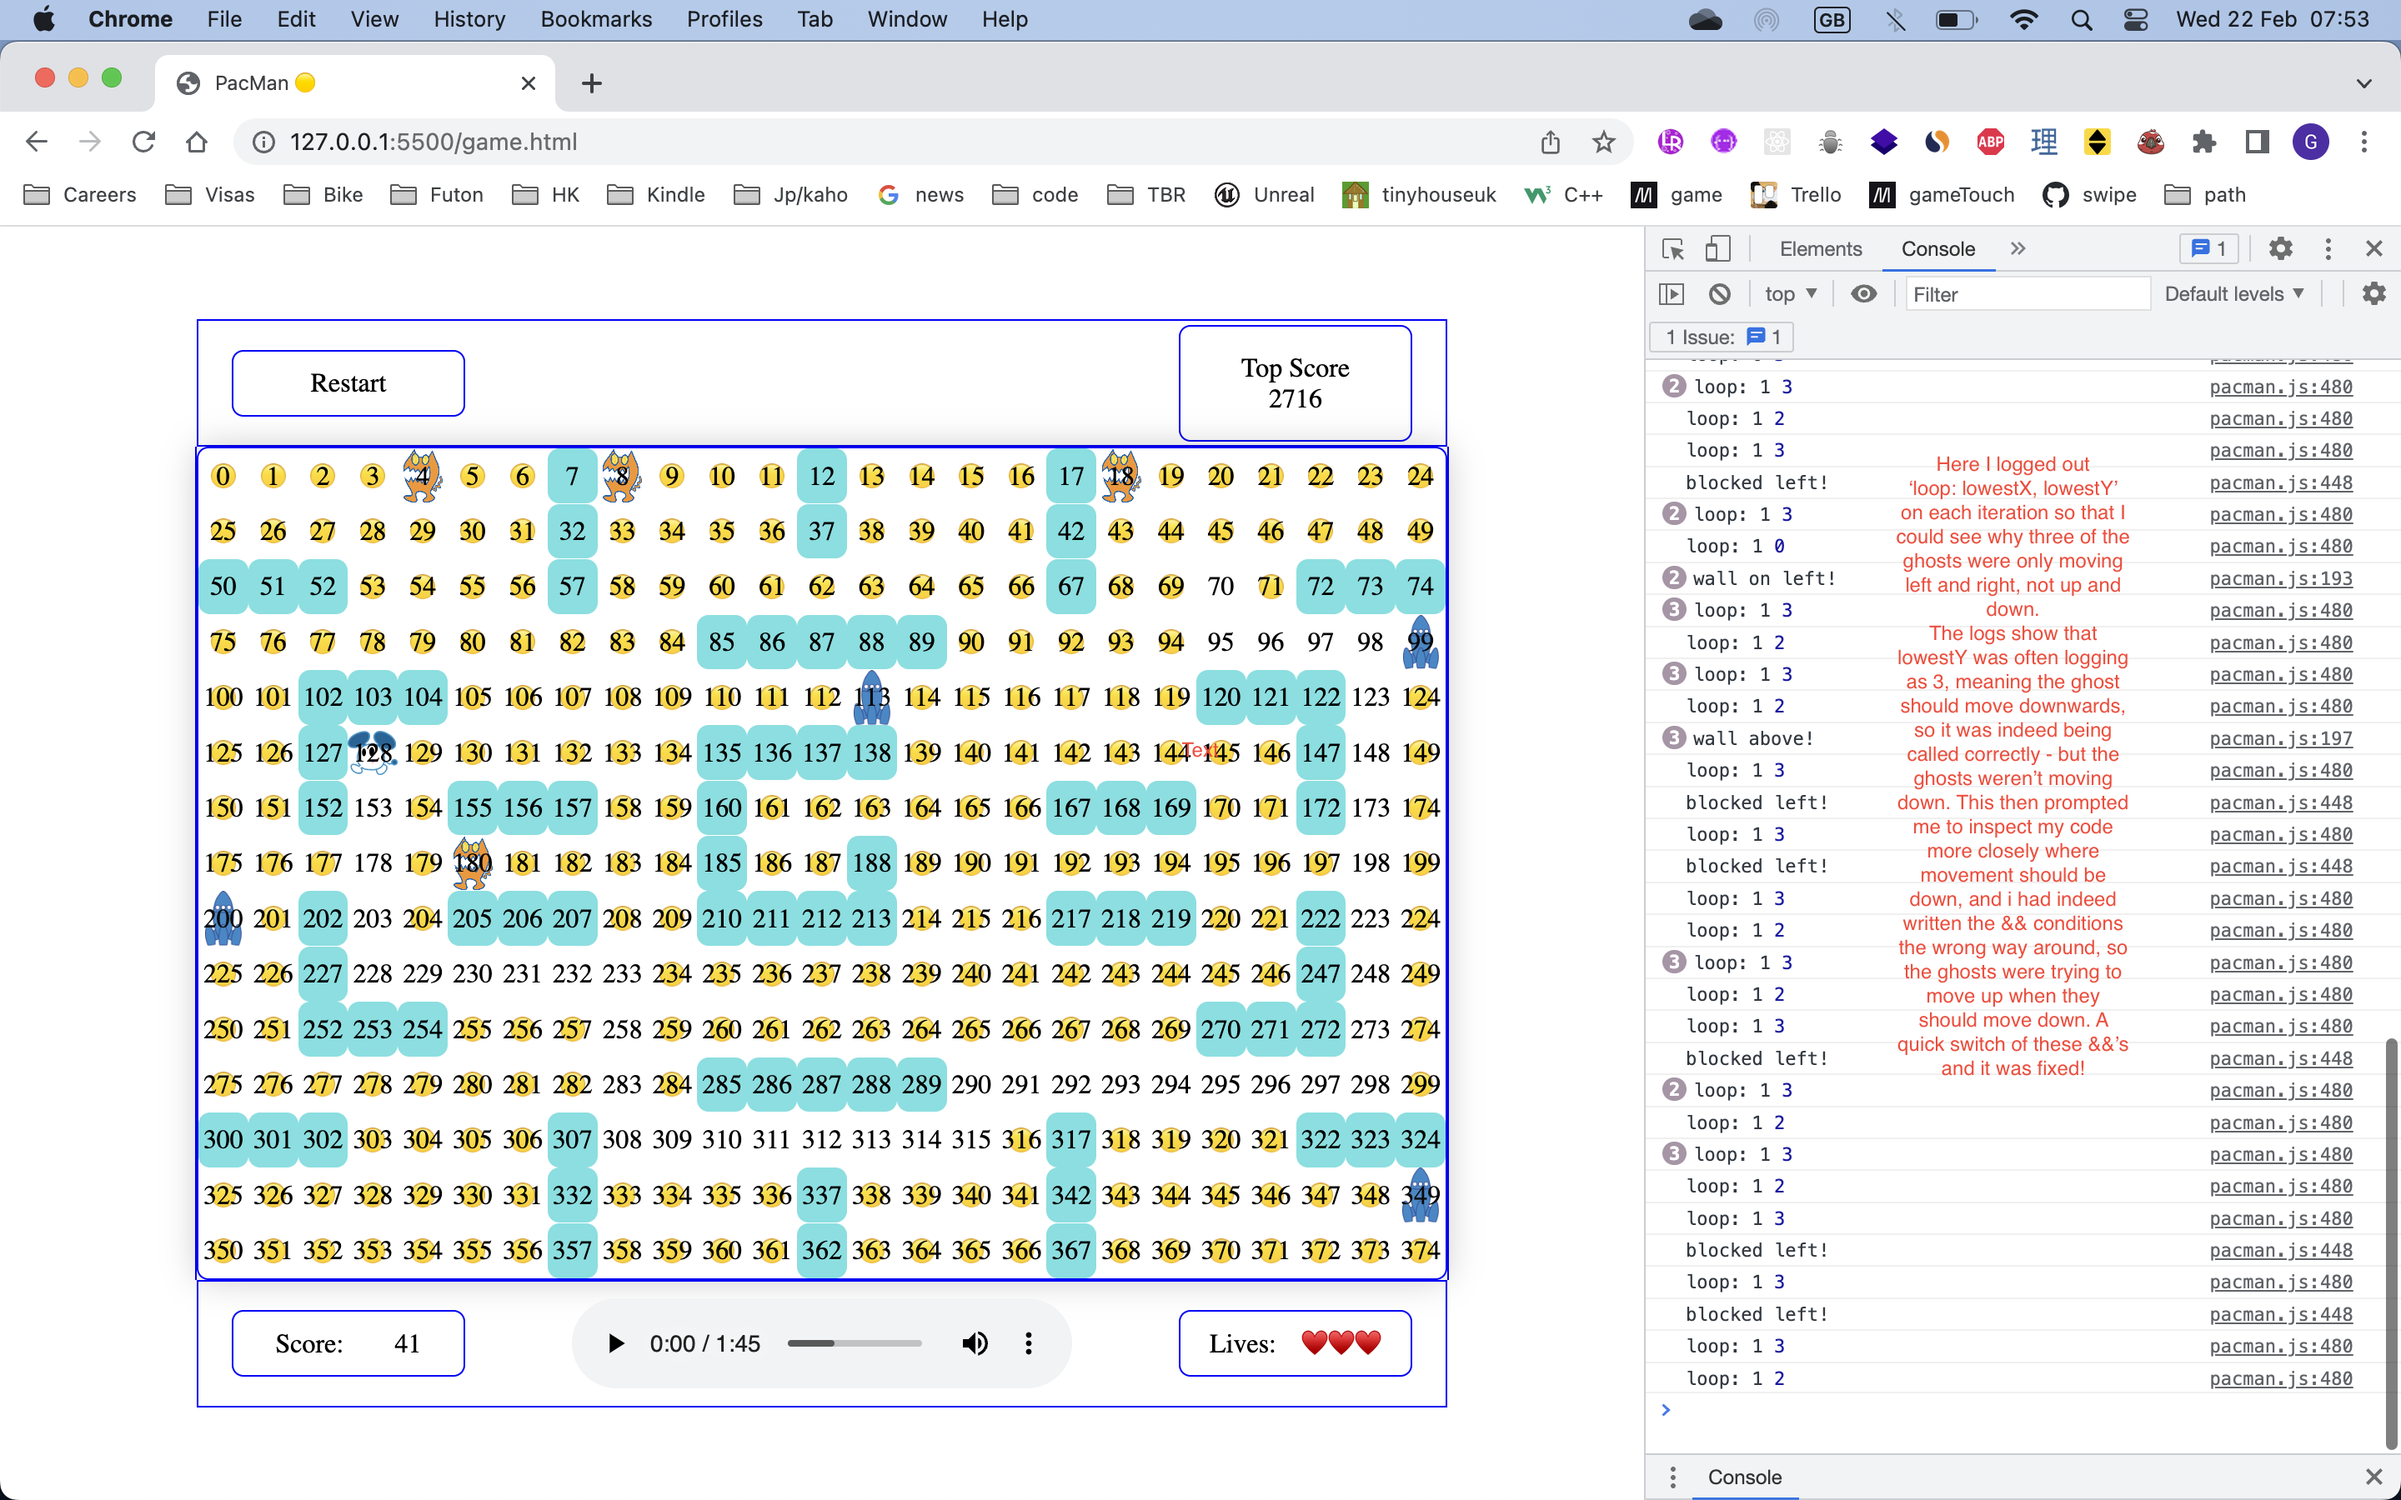
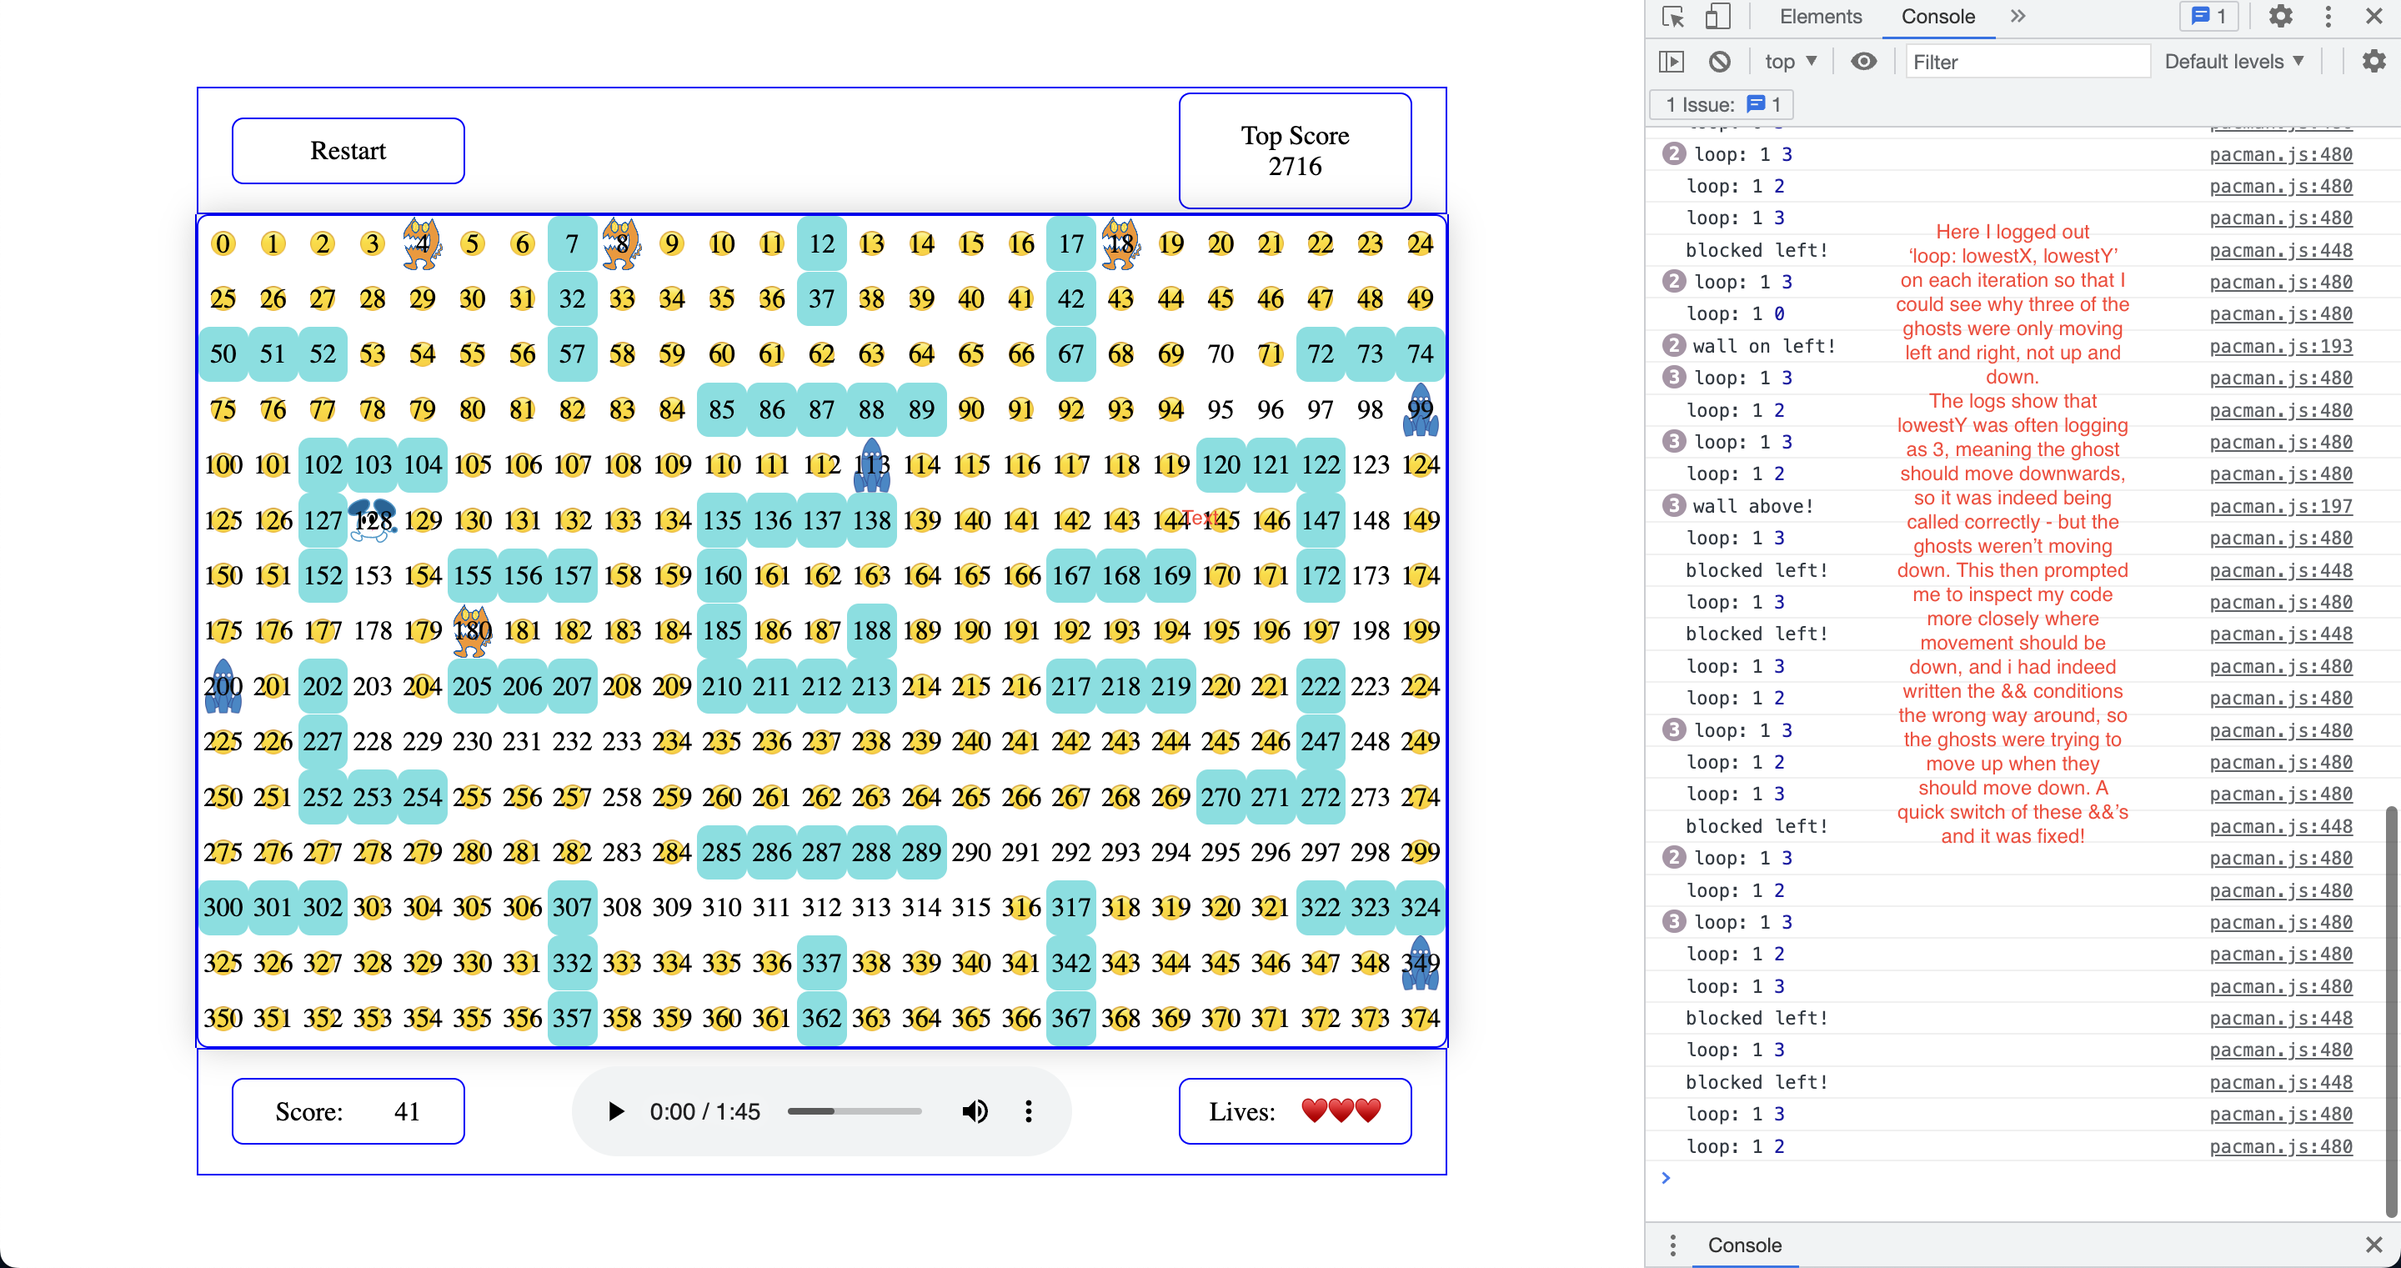
Added mobile responsiveness

diff --git a/styles/style.css b/styles/style.css
@@ -32,7 +32,7 @@ section{
 
 section:not(:nth-of-type(2)){
   height: 10vh;
-  width: 750px;
+  width: 55vw;
   margin: 0 auto;
 }
 
@@ -79,7 +79,7 @@ section div{
 }
 
 #grid-wrapper {
-  padding: 2% 0;
+  padding: 0;
   display: flex;
   justify-content: center;
   align-items: center;
@@ -94,7 +94,7 @@ section div{
   justify-content: center;
   align-items: center;
   height: 500px;
-  width: 750px;
+  width: 55vw;
   padding: 0;
 }
 
@@ -212,10 +212,13 @@ section div{
 .start-screen-main{
   background-color: black;
   color: whitesmoke;
+  width: 100vw;
 }
 
 #start-screen-top{
   justify-content: end;
+  width: 35vw;
+  margin: 0 50%;
 }
 #start-screen-top div{
   height: 70px;
@@ -224,7 +227,7 @@ section div{
 }
 #start-screen-middle{
   height: 300px;
-  width: 750px;
+  width: 100vw;
   justify-content: center;
   background-image: url('./themes/pacman-start.png');
   background-size: contain;
@@ -310,36 +313,49 @@ audio{
   }
 }
 
-@media (max-width: 1480px){
-  main{
-    width: 100vw;
-    /* height: 50vh; */
+@media (max-width: 915px){
+  section{
+    width: 100vw !important;
   }
-  #grid-wrapper{
+  main{
     padding: 0;
   }
-  /* .grid div{
-    font-size: 8px;
-  } */
+  .grid{
+    width: 100vw;
+    height: 72vh;
+  }
+  section:not(:nth-of-type(2)){
+    height: 14vh;
+  }
+  #top div:nth-child(3){
+    height: 50px;
+  }
+  #start-screen-top{
+    height: 15vh;
+  }
+  #start-screen-top div{
+    height: 40px;
+  }
+  #start-screen-middle{
+    height: 30vh;
+  }
+  #start-bottom a{
+    background-color: black;
+  }
 } 
 
-/* @media (max-width: 650px){
+@media (max-width: 450px){
   .grid{
-    height: 50vh;
+    width: 100vw;
+    height: 30vh;
   }
-}  */
-
-@media (max-width: 500px){
-  /* .grid{
-    height: 40vh;
-  } */
-  .grid div{
-    border-radius: 1px;
+  #top, #bottom{
+    padding: 0;
   }
-} 
-
-/* @media (max-width: 380px){
-  .grid{
-    height: 35vh;
+  #top div{
+    width: 120px;
   }
-}  */
+  #start-bottom div{
+    width: 100%;
+  }
+}
